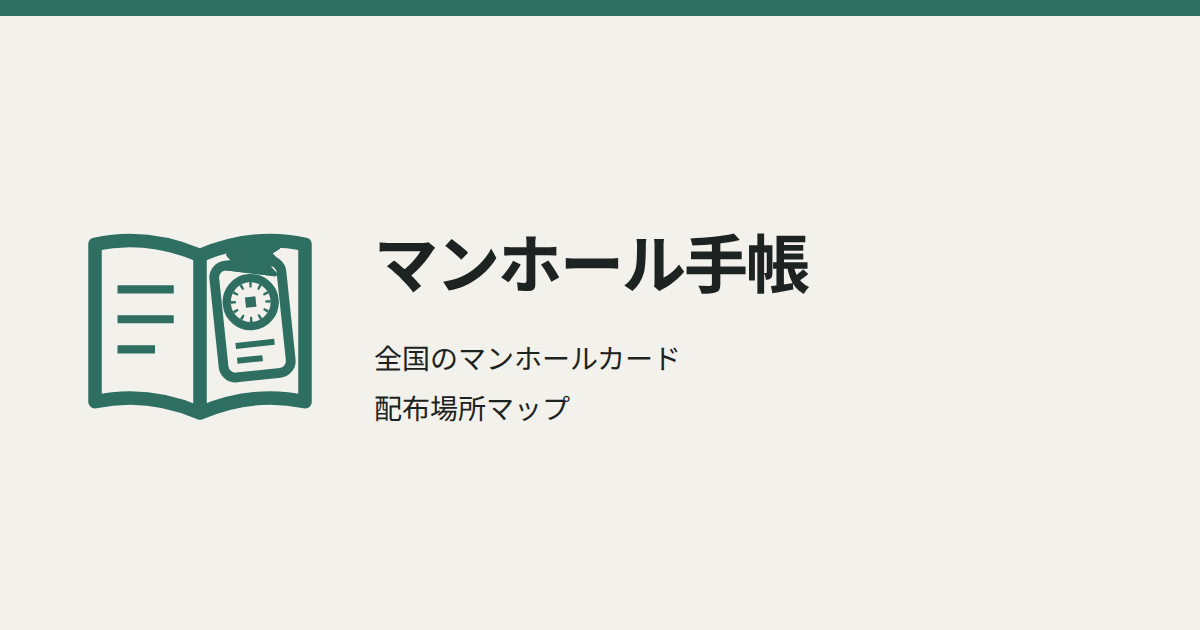
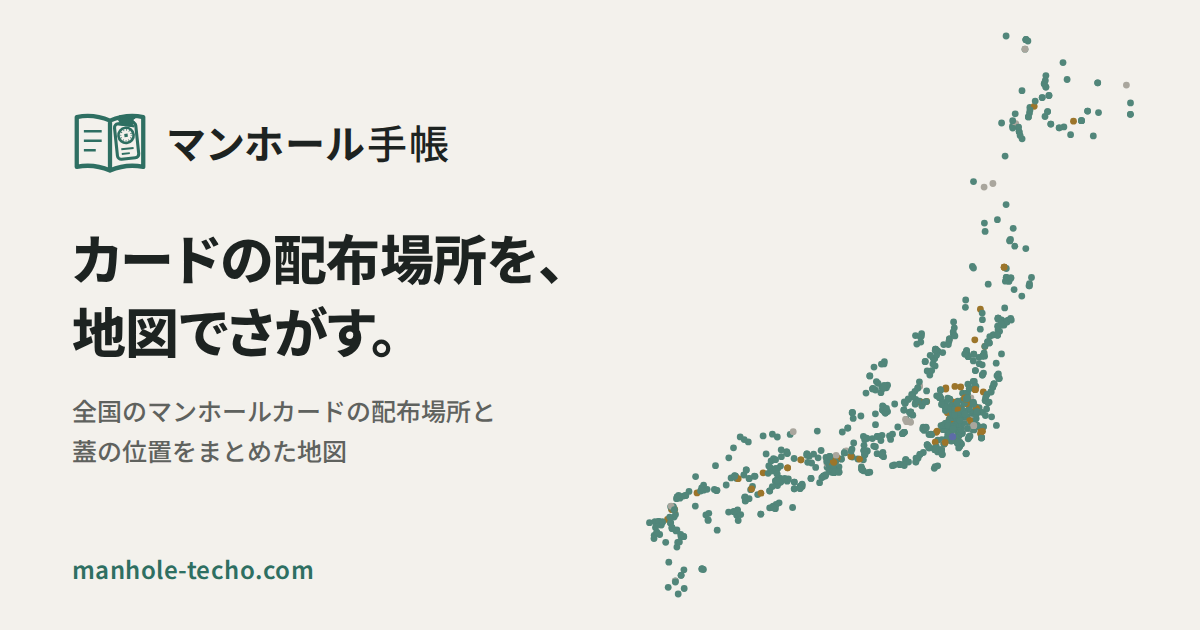
Draw the share image from the distribution places
The image was the logo and two lines on a blank band. It now carries the
wordmark, what the site does, the address, and the country drawn by one
dot per distribution place of the generated data.

diff --git a/web/README.md b/web/README.md
@@ -208,7 +208,7 @@ node --input-type=module -e 'import { checkCatalogDependencies } from "./scripts
 
 4つのHTMLにtitle・description・canonical・OGPを置く。地図の枚数プレースホルダーはViteのabout-data-summaryで公開データの全カード数へ置換する（fixtureはfixtureData）。canonicalは本番の拡張子なしURLとし、既存の.htmlリンクは配信側のリダイレクトで引き続き使える。404はnoindex。WebSiteとWebApplicationのJSON-LDはindex.htmlに置く。
 
-OG画像・apple-touch-icon・manifestはpublic/の管理対象で、Viteのseo-assetsが配信先に配置する。画像の再生成はweb/で次を実行する。既存ロゴのパスとローカルのNoto Sans JPを使い、本文への画像・フォント追加は行わない。
+OG画像・apple-touch-icon・manifestはpublic/の管理対象で、Viteのseo-assetsが配信先に配置する。画像の再生成はweb/で次を実行する。既存ロゴのパスとローカルのNoto Sans JPを使い、本文への画像・フォント追加は行わない。OG画像の右側の点は生成済みの `public/data/pins.json` の配布場所（本州・北海道・四国・九州の範囲）を状態の色で打ったもので、データを作ってから実行する。
 
 ```sh
 mise exec -- node scripts/generate-seo-images.mjs
